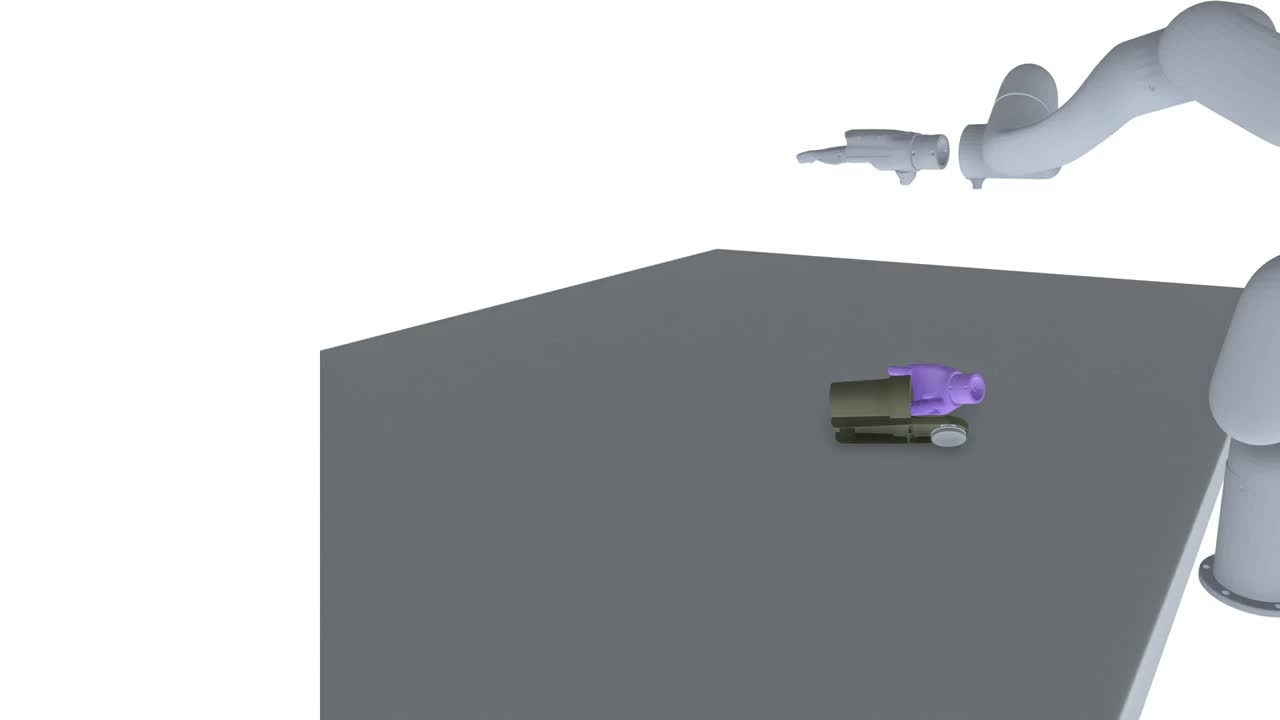
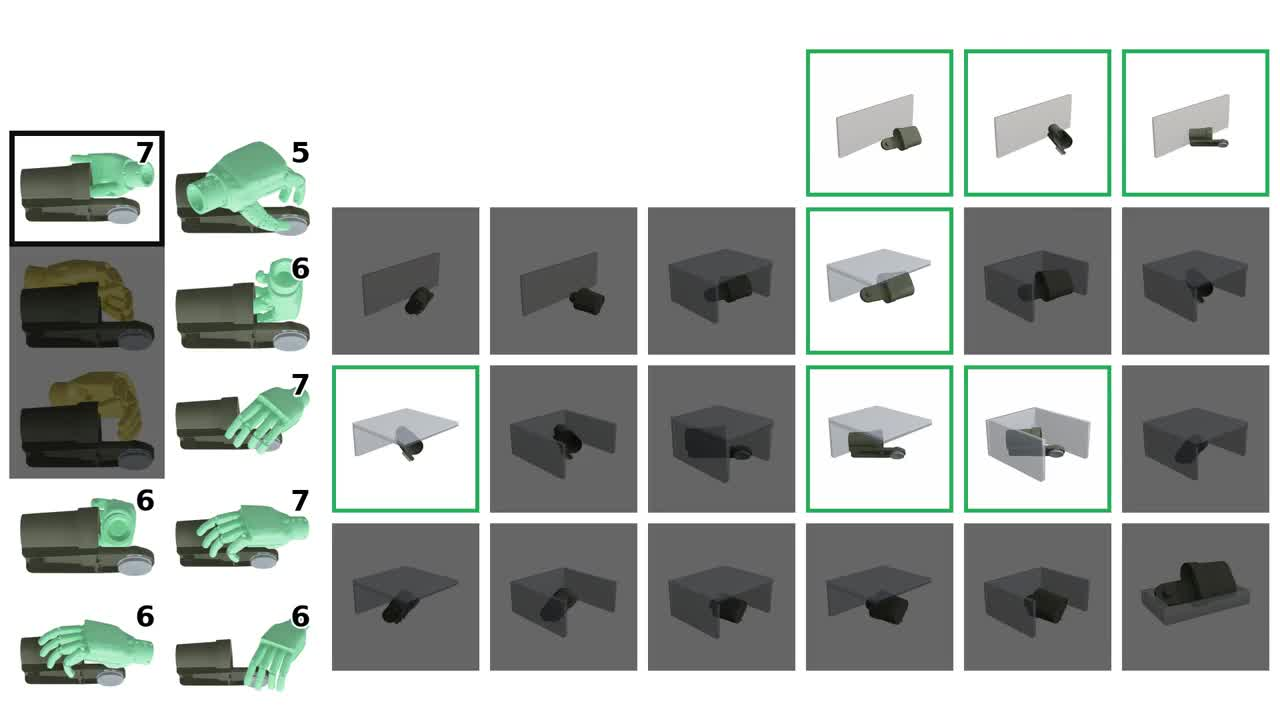
Add Grasp Generation section; loop = 5 accurate steps (Perceive/Filter/Select/Execute/Reset) with author-provided narrations + correct clips

diff --git a/index.html b/index.html
@@ -14,7 +14,7 @@
   <link rel="preconnect" href="https://fonts.gstatic.com" crossorigin>
   <link href="https://fonts.googleapis.com/css2?family=Inter:wght@400;500;600;700;800&family=Space+Grotesk:wght@500;600;700&family=Noto+Sans+KR:wght@400;500;700&display=swap" rel="stylesheet">
   <link rel="stylesheet" href="https://cdnjs.cloudflare.com/ajax/libs/font-awesome/6.4.0/css/all.min.css">
-  <link rel="stylesheet" href="static/css/index.css?v=20260623k">
+  <link rel="stylesheet" href="static/css/index.css?v=20260623m">
 </head>
 <body>
 
@@ -23,6 +23,7 @@
     <div class="wrap-wide nav-inner">
       <a href="#top" class="nav-logo">AutoDex</a>
       <div class="nav-links">
+        <a class="navlink" href="#generate" data-sec="generate">Generation</a>
         <a class="navlink" href="#loop" data-sec="loop">The Loop</a>
         <a class="navlink" href="#explore" data-sec="explore">Demo</a>
         <a class="navlink" href="#dataset" data-sec="dataset">Dataset</a>
@@ -95,17 +96,27 @@
     </div>
   </section>
 
+  <!-- ================= GRASP GENERATION ================= -->
+  <section id="generate">
+    <div class="wrap-wide">
+      <h2 class="sec-title">Grasp Generation</h2>
+      <p class="sec-sub">Before any robot runs, a replaceable simulation generator (BODex) proposes a large set of geometrically feasible candidate grasps for each object under scene constraints &mdash; wall, shelf, and box. They are collision-free with the object and obstacles, but their stability under real contact is left for AutoDex to test on hardware.</p>
+      <div class="frame"><video class="lazyplay" autoplay muted loop playsinline poster="static/posters/generation.jpg"><source src="static/videos/generation.mp4" type="video/mp4"></video></div>
+    </div>
+  </section>
+
   <!-- ================= THE LOOP ================= -->
-  <section id="loop">
+  <section class="soft" id="loop">
     <div class="wrap-wide">
       <h2 class="sec-title">Grasp Validation Loop</h2>
-      <p class="sec-sub">Candidate grasps are precomputed in simulation. Per trial, AutoDex runs perceive &rarr; select &rarr; execute on real hardware; once a pose&rsquo;s feasible candidates are exhausted, it resets the object to a new pose. No human in the loop. Click a step.</p>
+      <p class="sec-sub">Candidate grasps are precomputed in simulation. Per trial, AutoDex runs perceive &rarr; filter &rarr; select &rarr; execute on real hardware; when a pose&rsquo;s candidates run out, it resets the object to a new pose. No human in the loop. Click a step.</p>
 
       <div class="stepper">
         <div class="step-tab active" data-step="1"><span class="n">1</span> Perceive</div>
-        <div class="step-tab" data-step="2"><span class="n">2</span> Select</div>
-        <div class="step-tab" data-step="3"><span class="n">3</span> Execute</div>
-        <div class="step-tab" data-step="4"><span class="n">4</span> Reset &nbsp;&#8635;</div>
+        <div class="step-tab" data-step="2"><span class="n">2</span> Filter</div>
+        <div class="step-tab" data-step="3"><span class="n">3</span> Select</div>
+        <div class="step-tab" data-step="4"><span class="n">4</span> Execute</div>
+        <div class="step-tab" data-step="5"><span class="n">5</span> Reset &nbsp;&#8635;</div>
       </div>
 
       <div>
@@ -114,23 +125,27 @@
           <div class="step-text"><h3>1 &middot; Perceive</h3><p>From 20 synchronized views, AutoDex segments the object with SAM&nbsp;3, obtains an initial 6D pose with FoundationPose, and refines it by matching the object&rsquo;s rendered silhouette against every camera. This pose is then tracked throughout the trial &mdash; robust even when the hand severely occludes the object.</p></div>
         </div>
         <div class="step-panel" data-step="2">
-          <div class="frame"><video muted loop playsinline poster="static/posters/select.jpg"><source src="static/videos/select.mp4" type="video/mp4"></video></div>
-          <div class="step-text"><h3>2 &middot; Select</h3><p>The stored candidates for the current pose are transformed into the robot frame and filtered &mdash; any with no arm IK solution, with joint-limit violations, or whose arm or hand collides with the table, object, or virtual scene are discarded. From the remaining feasible, unattempted candidates, AutoDex picks one and plans a collision-free arm trajectory (cuRobo) to its wrist pose.</p></div>
+          <div class="frame"><video muted loop playsinline poster="static/posters/filter.jpg"><source src="static/videos/filter.mp4" type="video/mp4"></video></div>
+          <div class="step-text"><h3>2 &middot; Filter</h3><p>After perception, AutoDex filters the candidate grasps for the current trial. It considers only the candidates generated for the object&rsquo;s current stable tabletop pose, transforms them into the robot frame, and discards any without an arm inverse-kinematics solution. The remaining candidates form the feasible set for this trial.</p></div>
         </div>
         <div class="step-panel" data-step="3">
-          <div class="frame"><video muted loop playsinline poster="static/posters/execute.jpg"><source src="static/videos/execute.mp4" type="video/mp4"></video></div>
-          <div class="step-text"><h3>3 &middot; Execute</h3><p>The arm approaches in a pre-grasp &mdash; a maximally opened variant of the candidate that stays collision-free &mdash; then the hand closes to the candidate grasp, lifts the object, and holds, with a residual-torque monitor guarding against unexpected collisions. The trial is labeled automatically: 6D tracking applies a lift-and-hold criterion &mdash; success if the object stays lifted with the hand throughout, failure otherwise.</p></div>
+          <div class="frame"><video muted loop playsinline poster="static/posters/select.jpg"><source src="static/videos/select.mp4" type="video/mp4"></video></div>
+          <div class="step-text"><h3>3 &middot; Select</h3><p>From the feasible set, AutoDex selects the grasp that works in the largest number of remaining scenes &mdash; a grasp &ldquo;works&rdquo; in a scene if it stays feasible under that scene&rsquo;s obstacle constraints. When the real-world execution succeeds, those scenes are marked complete and removed from the remaining set, so a single successful grasp can be reused across many scene conditions &mdash; making each physical trial as useful as possible.</p></div>
         </div>
         <div class="step-panel" data-step="4">
+          <div class="frame"><video muted loop playsinline poster="static/posters/execute.jpg"><source src="static/videos/execute.mp4" type="video/mp4"></video></div>
+          <div class="step-text"><h3>4 &middot; Execute</h3><p>The robot moves to a pre-grasp configuration, closes the hand, lifts the object, and briefly holds it &mdash; a lift-and-hold motion that tests real-world grasp stability; the trial is halted if unexpected contact is detected. AutoDex records synchronized multi-view videos, video-aligned robot states, and the selected grasp; object tracking then recovers the object&rsquo;s trajectory and assigns a success or failure label.</p></div>
+        </div>
+        <div class="step-panel" data-step="5">
           <div class="frame"><video muted loop playsinline poster="static/posters/reset.jpg"><source src="static/videos/reset.mp4" type="video/mp4"></video></div>
-          <div class="step-text"><h3>4 &middot; Reset &#8635;</h3><p>Once a pose&rsquo;s feasible candidates are used up, AutoDex reorients the object to a new stable pose. It merges the pickup and placement constraints into a single collision scene, finds one grasp that is collision-free for both, then picks the object up, places it at the new pose, and returns home &mdash; so the loop can keep testing across poses.</p></div>
+          <div class="step-text"><h3>5 &middot; Reset &#8635;</h3><p>When a pose&rsquo;s feasible candidates run out while others remain for different poses, AutoDex reorients the object to a new stable pose. The challenge is that reset needs a grasp that works for both pickup and placement; AutoDex finds one by merging the pickup and placement constraints into a single collision scene. A grasp that is collision-free there can carry the object from its current pose (<b>left</b>) to the destination pose (<b>right</b>).</p></div>
         </div>
       </div>
     </div>
   </section>
 
   <!-- ================= INTERACTIVE SHOWCASE ================= -->
-  <section class="soft" id="explore">
+  <section id="explore">
     <div class="wrap-wide">
       <h2 class="sec-title">Pick an Object, Watch It Run</h2>
       <p class="sec-sub">AutoDex executing validated grasps on the real robot, with no human in the loop. Pick an object.</p>
@@ -144,7 +159,7 @@
   </section>
 
   <!-- ================= DATASET / SCALE ================= -->
-  <section id="dataset">
+  <section class="soft" id="dataset">
     <div class="wrap-wide">
       <h2 class="sec-title">3,593 Grasp Trials</h2>
       <p class="sec-sub">AutoDex builds a real-world-validated dexterous-grasp dataset &mdash; successes and failures &mdash; across three scene types. Each trial stores the grasp pose (6-DoF wrist&nbsp;+ finger joint values), the synchronized robot trajectory, the 20-view RGB video, and the lift-and-hold success/failure label.</p>
@@ -154,7 +169,7 @@
   </section>
 
   <!-- ================= BIBTEX ================= -->
-  <section class="soft" id="bibtex">
+  <section id="bibtex">
     <div class="wrap">
       <h2 class="sec-title">BibTeX</h2>
       <div class="bib">
@@ -175,6 +190,6 @@
     </div>
   </footer>
 
-  <script src="static/js/index.js?v=20260623k"></script>
+  <script src="static/js/index.js?v=20260623m"></script>
 </body>
 </html>